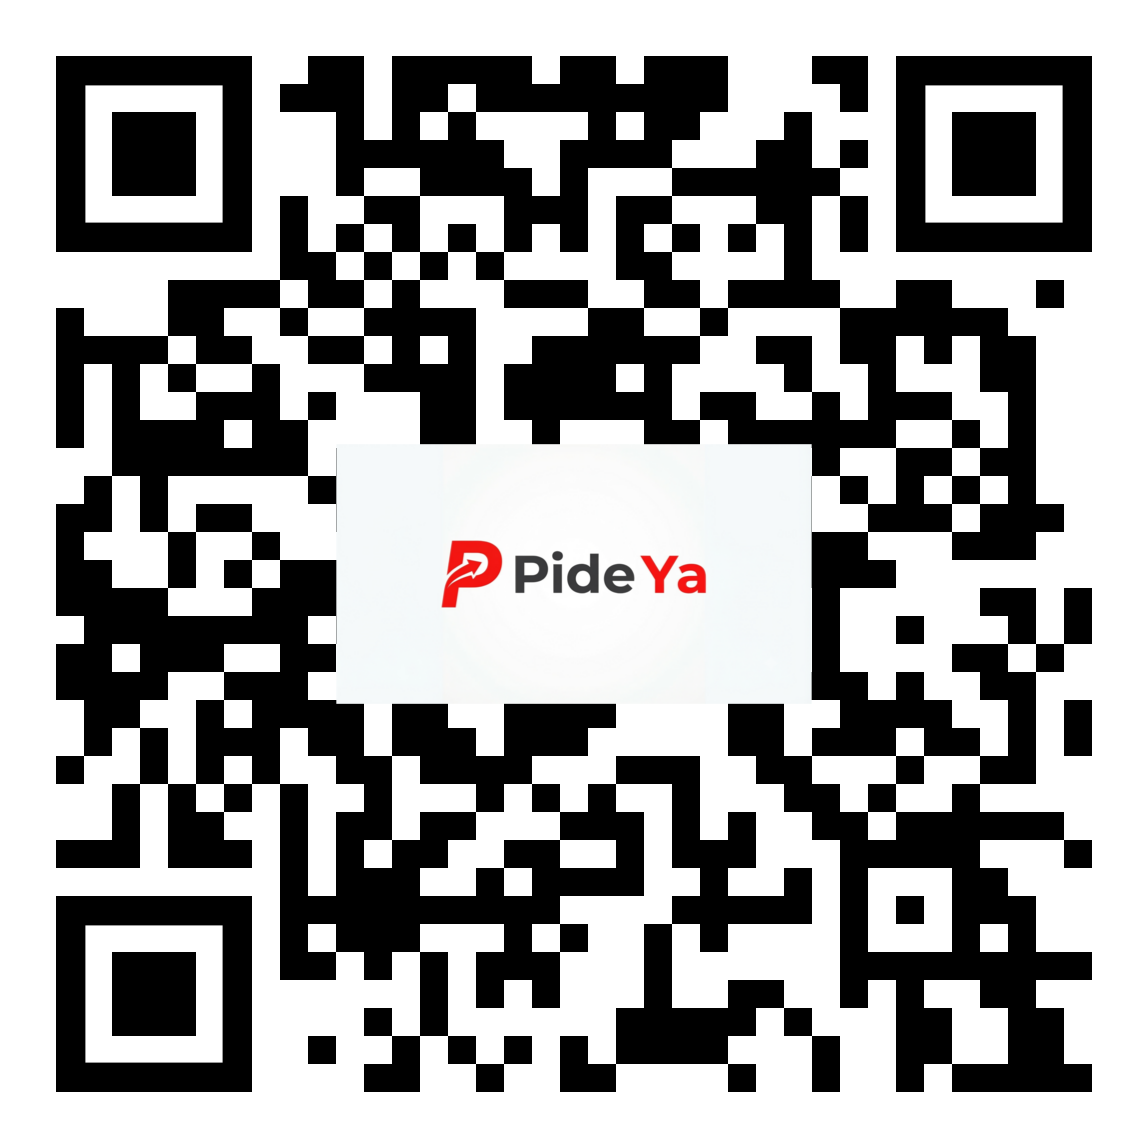
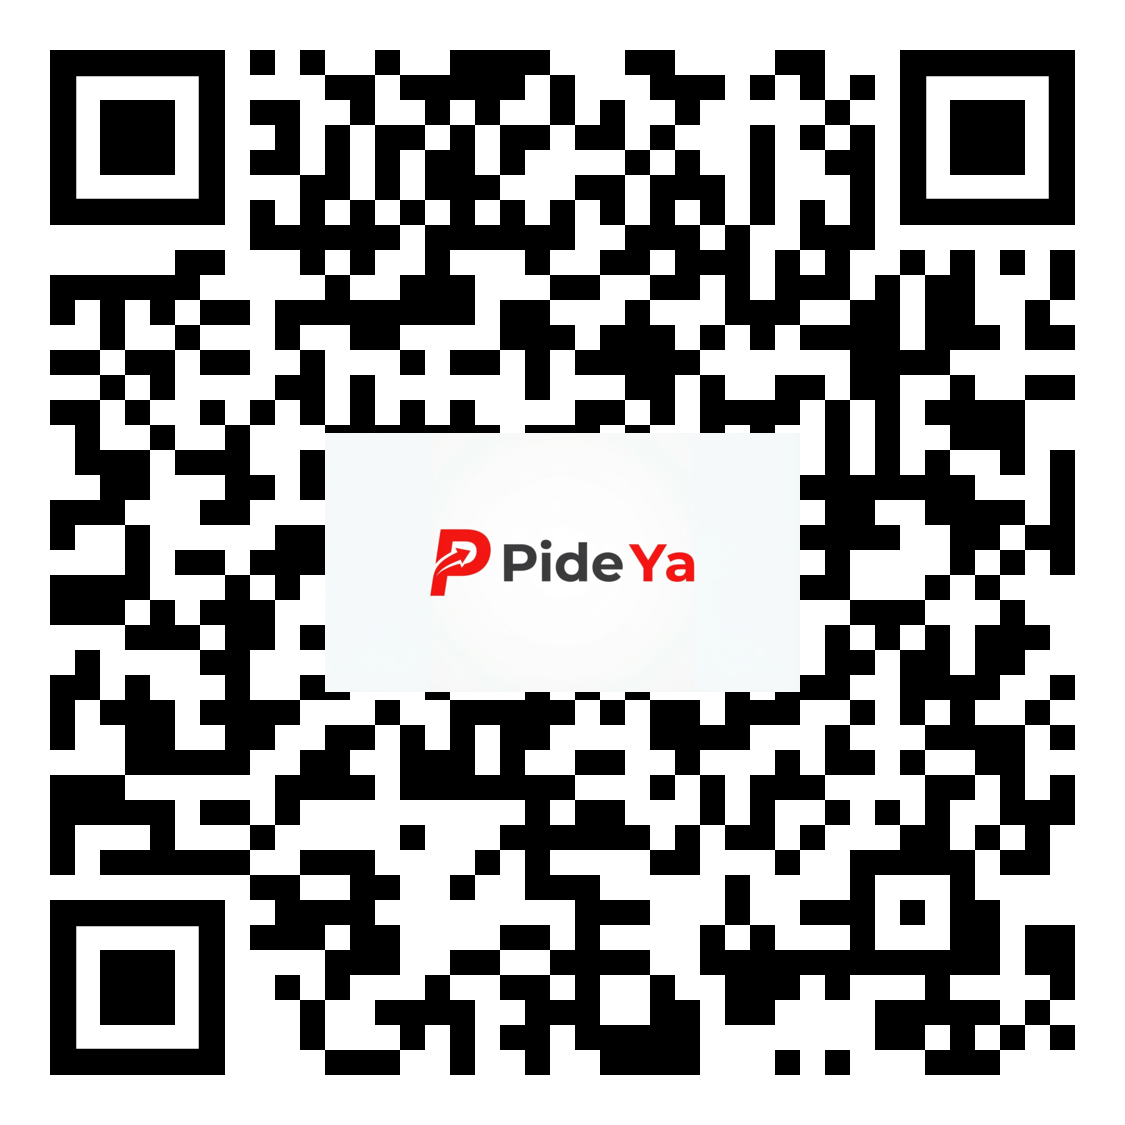
Add files via upload

diff --git a/index.html b/index.html
@@ -6,13 +6,13 @@
     
     <!-- Configuración Avanzada Open Graph (OG Share) - Conecta Card Oficial -->
     <meta property="og:type" content="website" />
-    <meta property="og:url" content="https://demo-pollos.pideya.contact/" />
+    <meta property="og:url" content="https://demo-cocina-economica.pideya.contact/" />
     <meta property="og:title" content="SAZON DE LA ABUELA | PIDE YA" />
-    <meta property="og:description" content="Disfruta de los más deliciosos pollos rostizados al carbón y al estilo tradicional. Explora nuestro menú exclusivo y visítanos con tu CONECTA CARD." />
+    <meta property="og:description" content="Disfruta de la auténtica comida casera con el verdadero sazón tradicional. Explora nuestro menú del día y visítanos con tu CONECTA CARD." />
     
     <!-- Infraestructura Multimedia Premium de Imagen de Portada -->
-    <meta property="og:image" content="https://demo-pollos.pideya.contact/og_pollos.jpg" />
-    <meta property="og:image:secure_url" content="https://demo-pollos.pideya.contact/og_pollos.jpg" />
+    <meta property="og:image" content="https://demo-cocina-economica.pideya.contact/og_sazon.jpg" />
+    <meta property="og:image:secure_url" content="https://demo-cocina-economica.pideya.contact/og_sazon.jpg" />
     <meta property="og:image:type" content="image/jpeg" />
     <meta property="og:image:width" content="1080" />
     <meta property="og:image:height" content="1920" />
